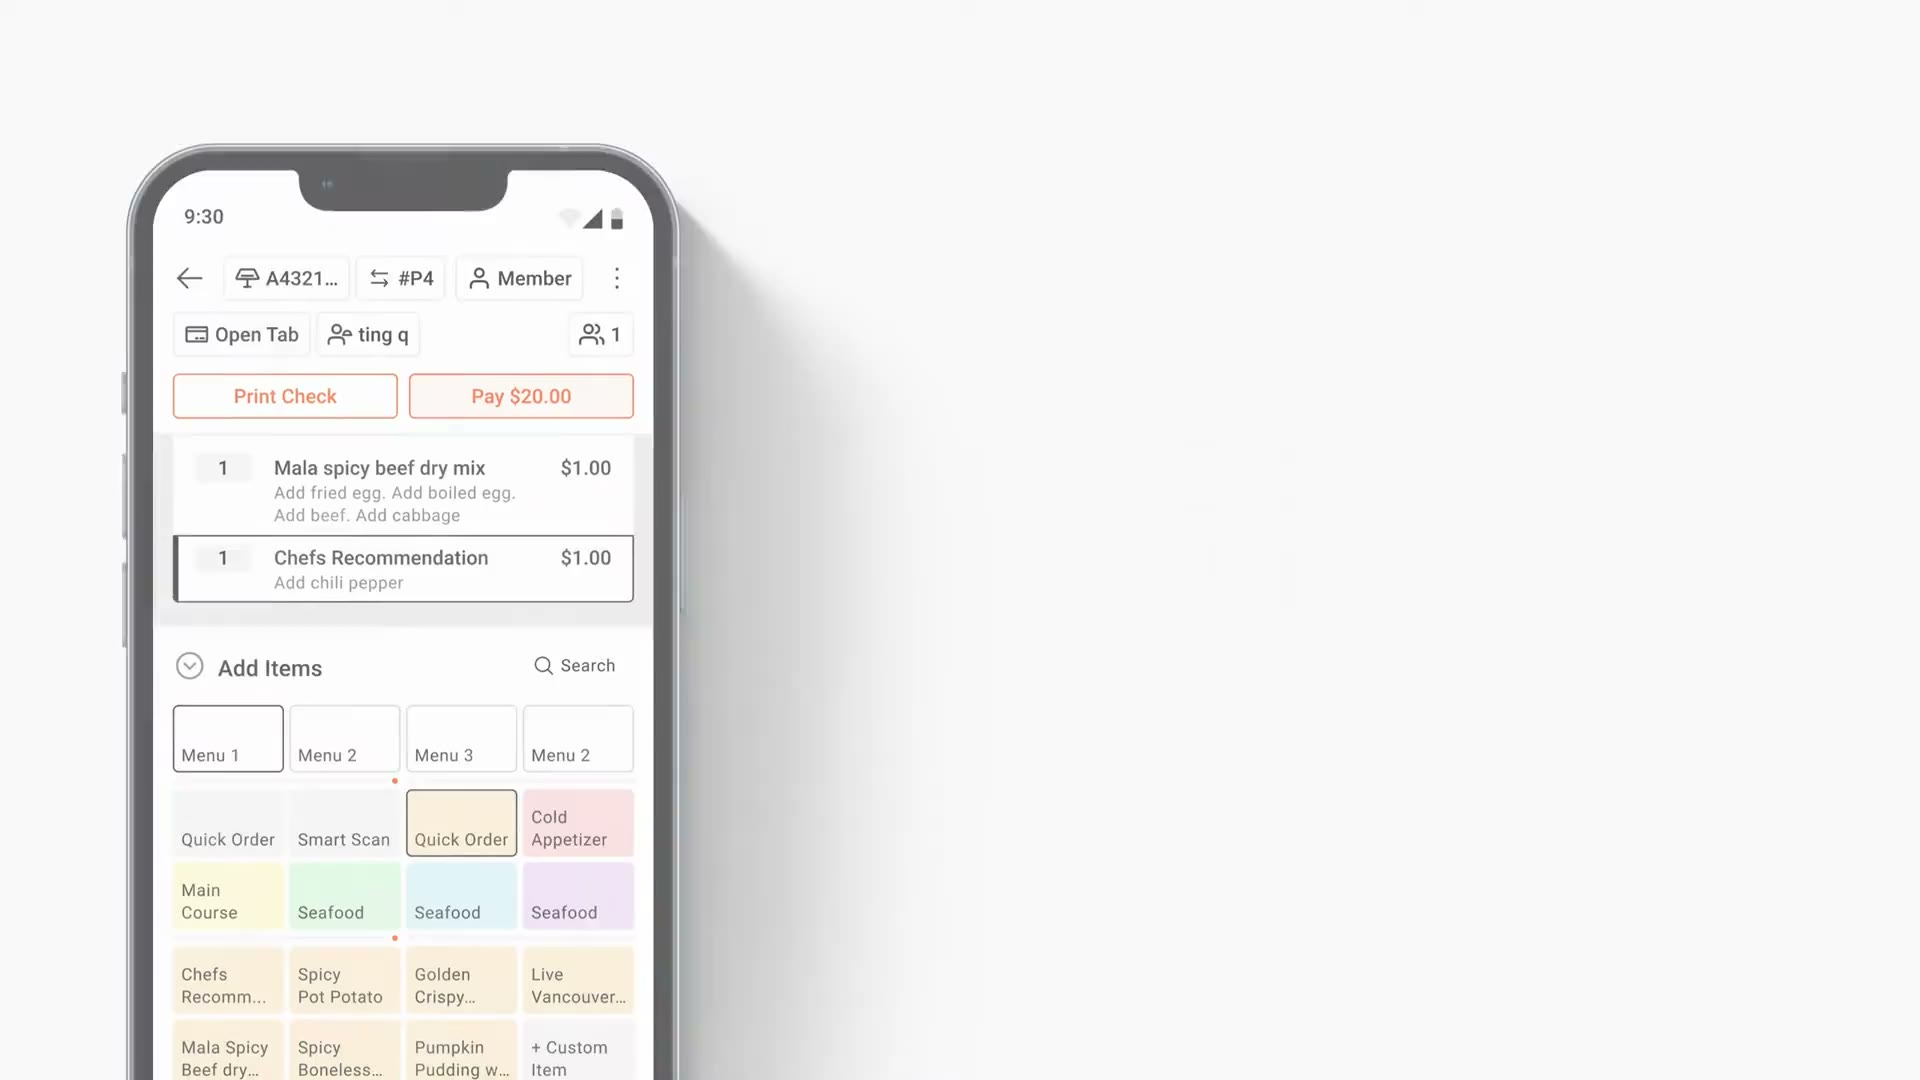
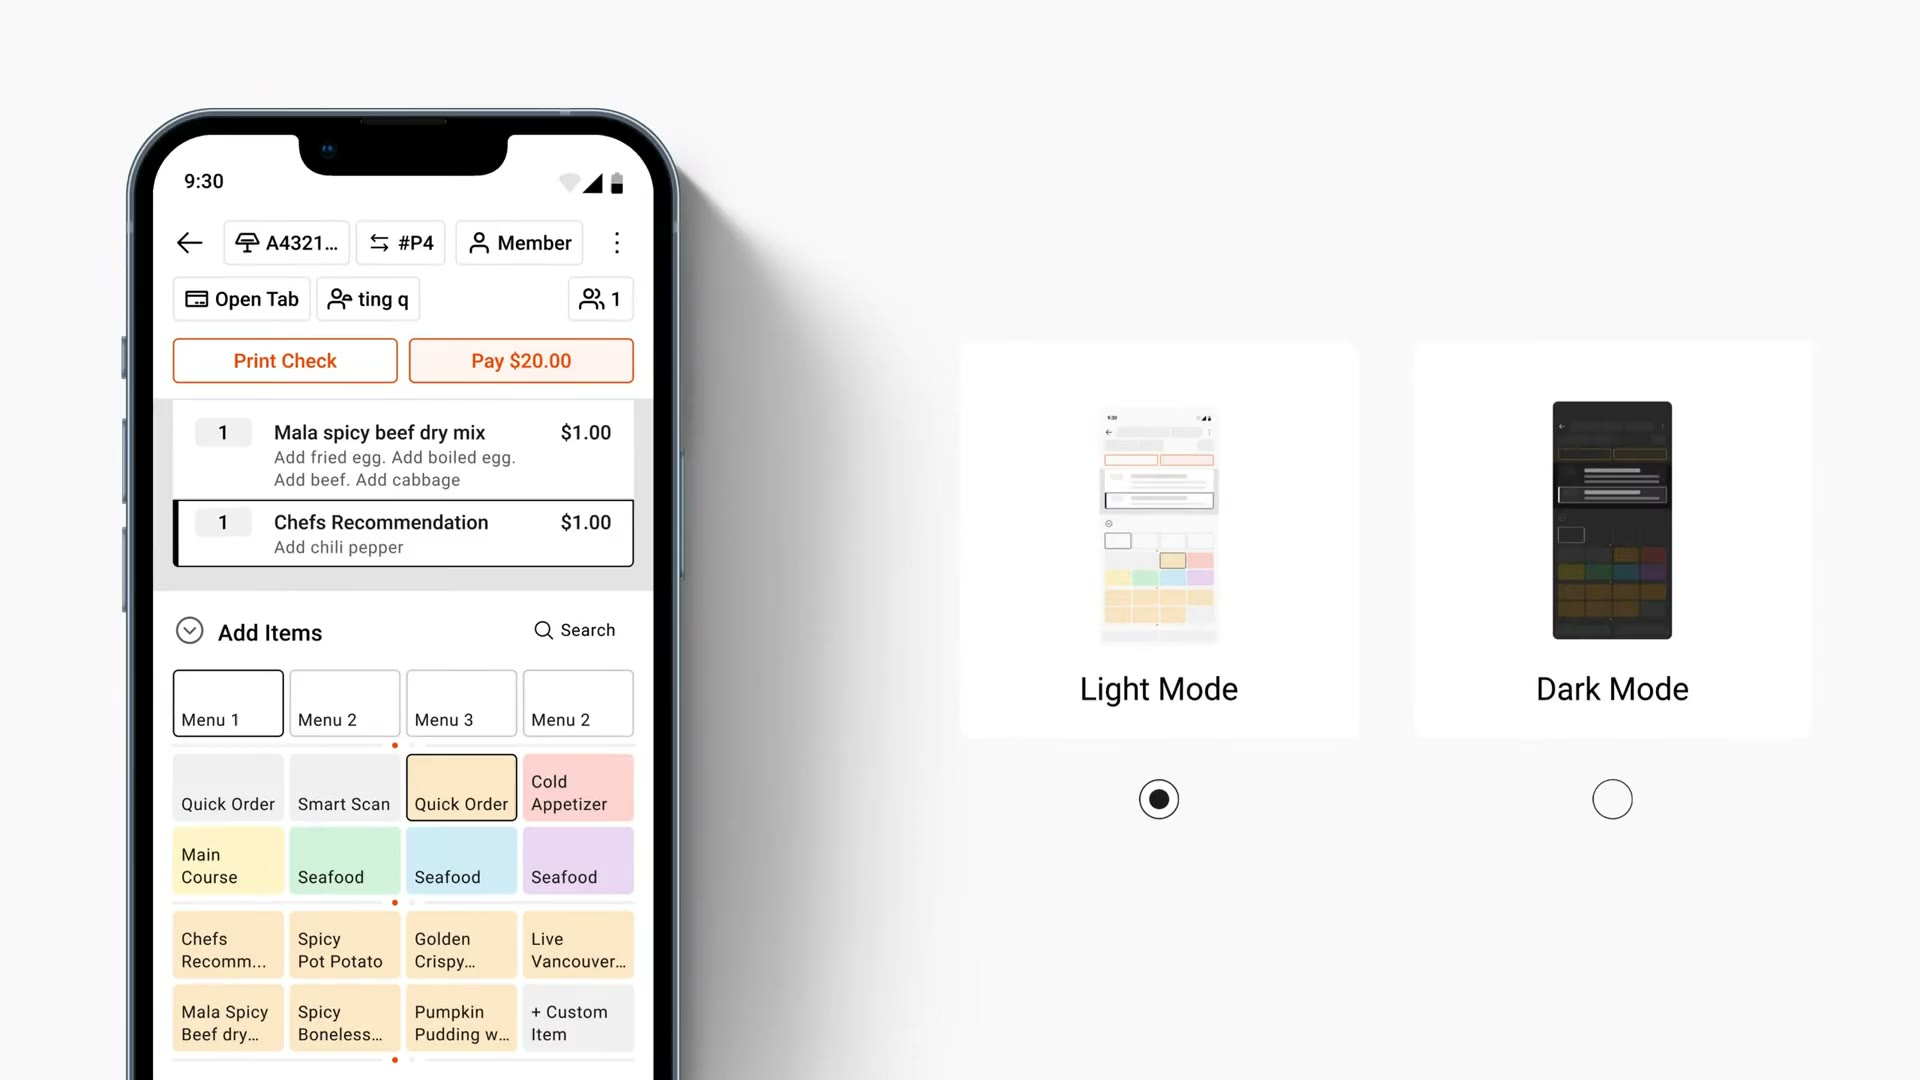
mpos: light/dark clip rebuilt as a seamless boomerang loop
Per Mina: the raw cut looped awkwardly (hard jump from dark back to
light) and ran too fast, and only the Dark toggle had the press effect.
Rebuilt from stills + real footage analysis:
- light hold -> real-style spring press on the Dark card (shrink ->
  overshoot -> settle, matching the original 15.9s animation curve)
  with crossfade to dark -> dark hold -> the SAME synthetic press on
  the Light card -> crossfade back to light. First and last frames are
  identical, so the loop is seamless.
- 60fps frames encoded at 48fps = 1.25x slower overall; 3.54s loop.

diff --git a/mpos.html b/mpos.html
@@ -264,7 +264,7 @@
       </div>
       <figure class="final-video reveal">
         <div class="final-video-stage">
-          <video src="demos/assets/mpos-lightdark.mp4?v=20260715a" poster="demos/assets/mpos-lightdark-poster.jpg?v=20260715a" autoplay muted loop playsinline preload="metadata"></video>
+          <video src="demos/assets/mpos-lightdark.mp4?v=20260715b" poster="demos/assets/mpos-lightdark-poster.jpg?v=20260715b" autoplay muted loop playsinline preload="metadata"></video>
         </div>
       </figure>
     </section>

diff --git a/zh/mpos.html b/zh/mpos.html
@@ -264,7 +264,7 @@
       </div>
       <figure class="final-video reveal">
         <div class="final-video-stage">
-          <video src="../demos/assets/mpos-lightdark.mp4?v=20260715a" poster="../demos/assets/mpos-lightdark-poster.jpg?v=20260715a" autoplay muted loop playsinline preload="metadata"></video>
+          <video src="../demos/assets/mpos-lightdark.mp4?v=20260715b" poster="../demos/assets/mpos-lightdark-poster.jpg?v=20260715b" autoplay muted loop playsinline preload="metadata"></video>
         </div>
       </figure>
     </section>